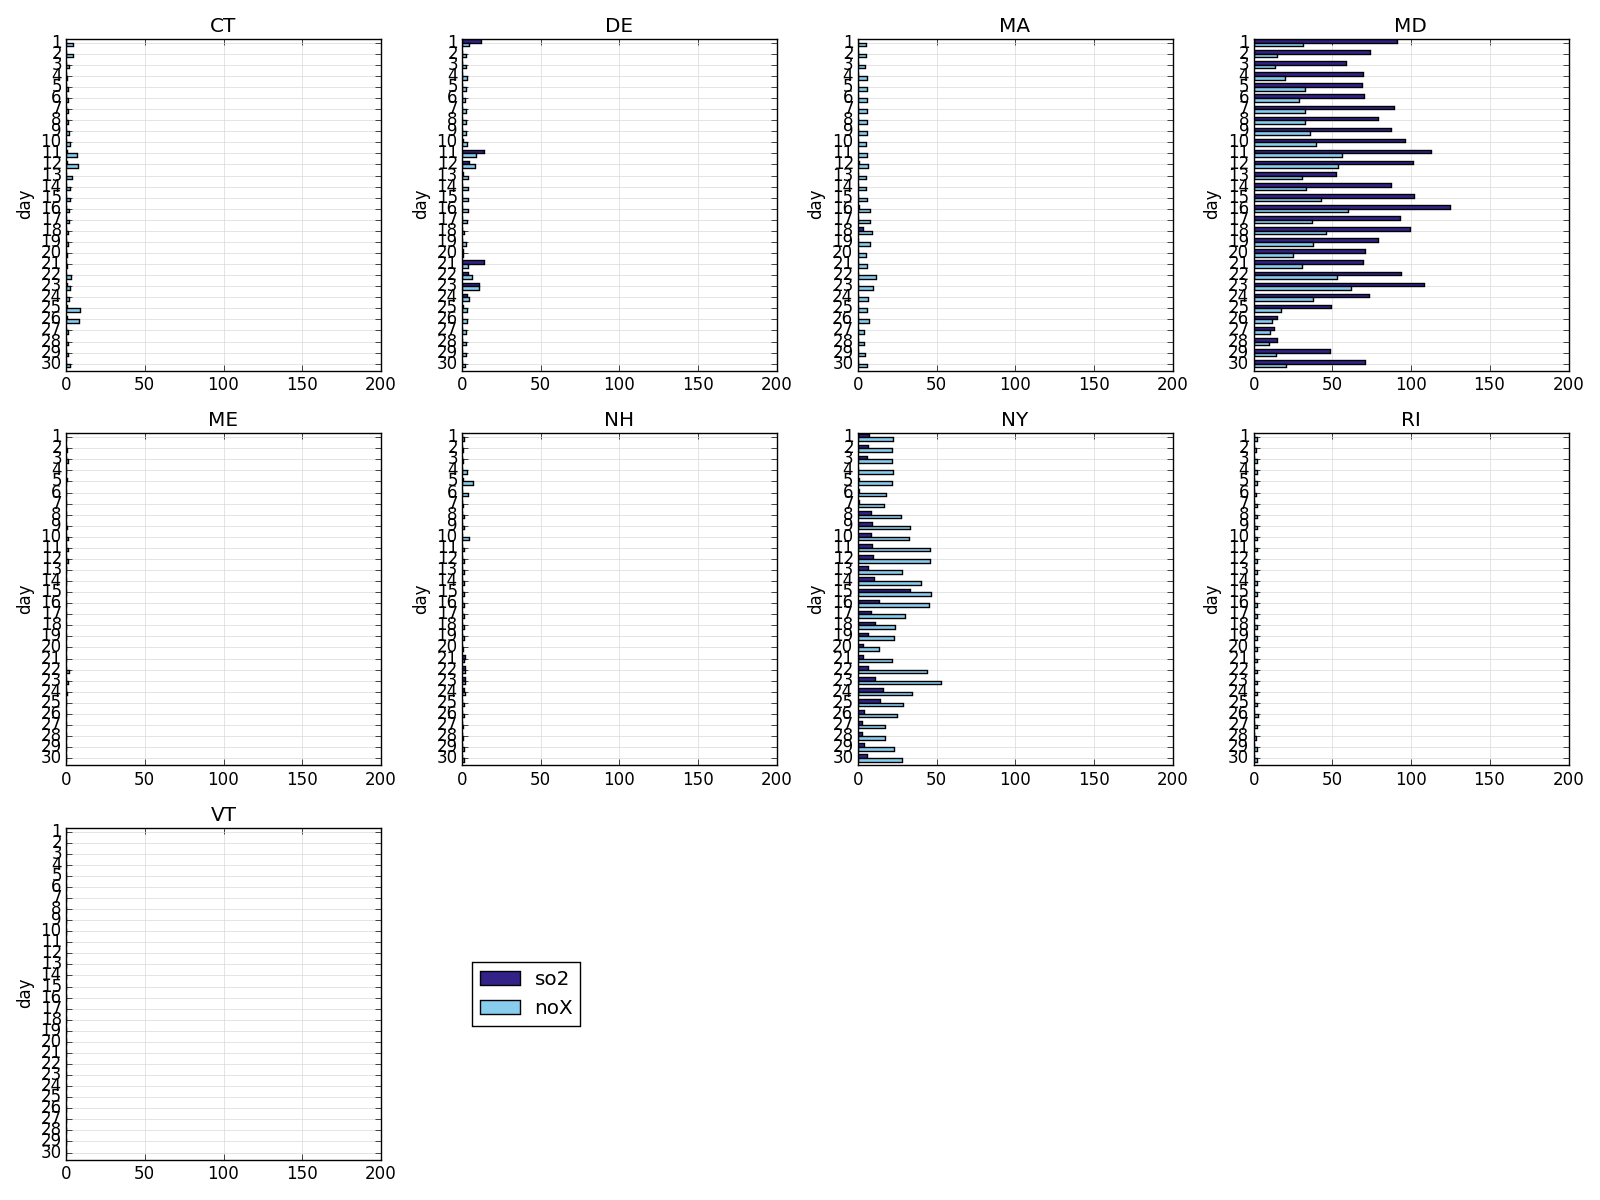
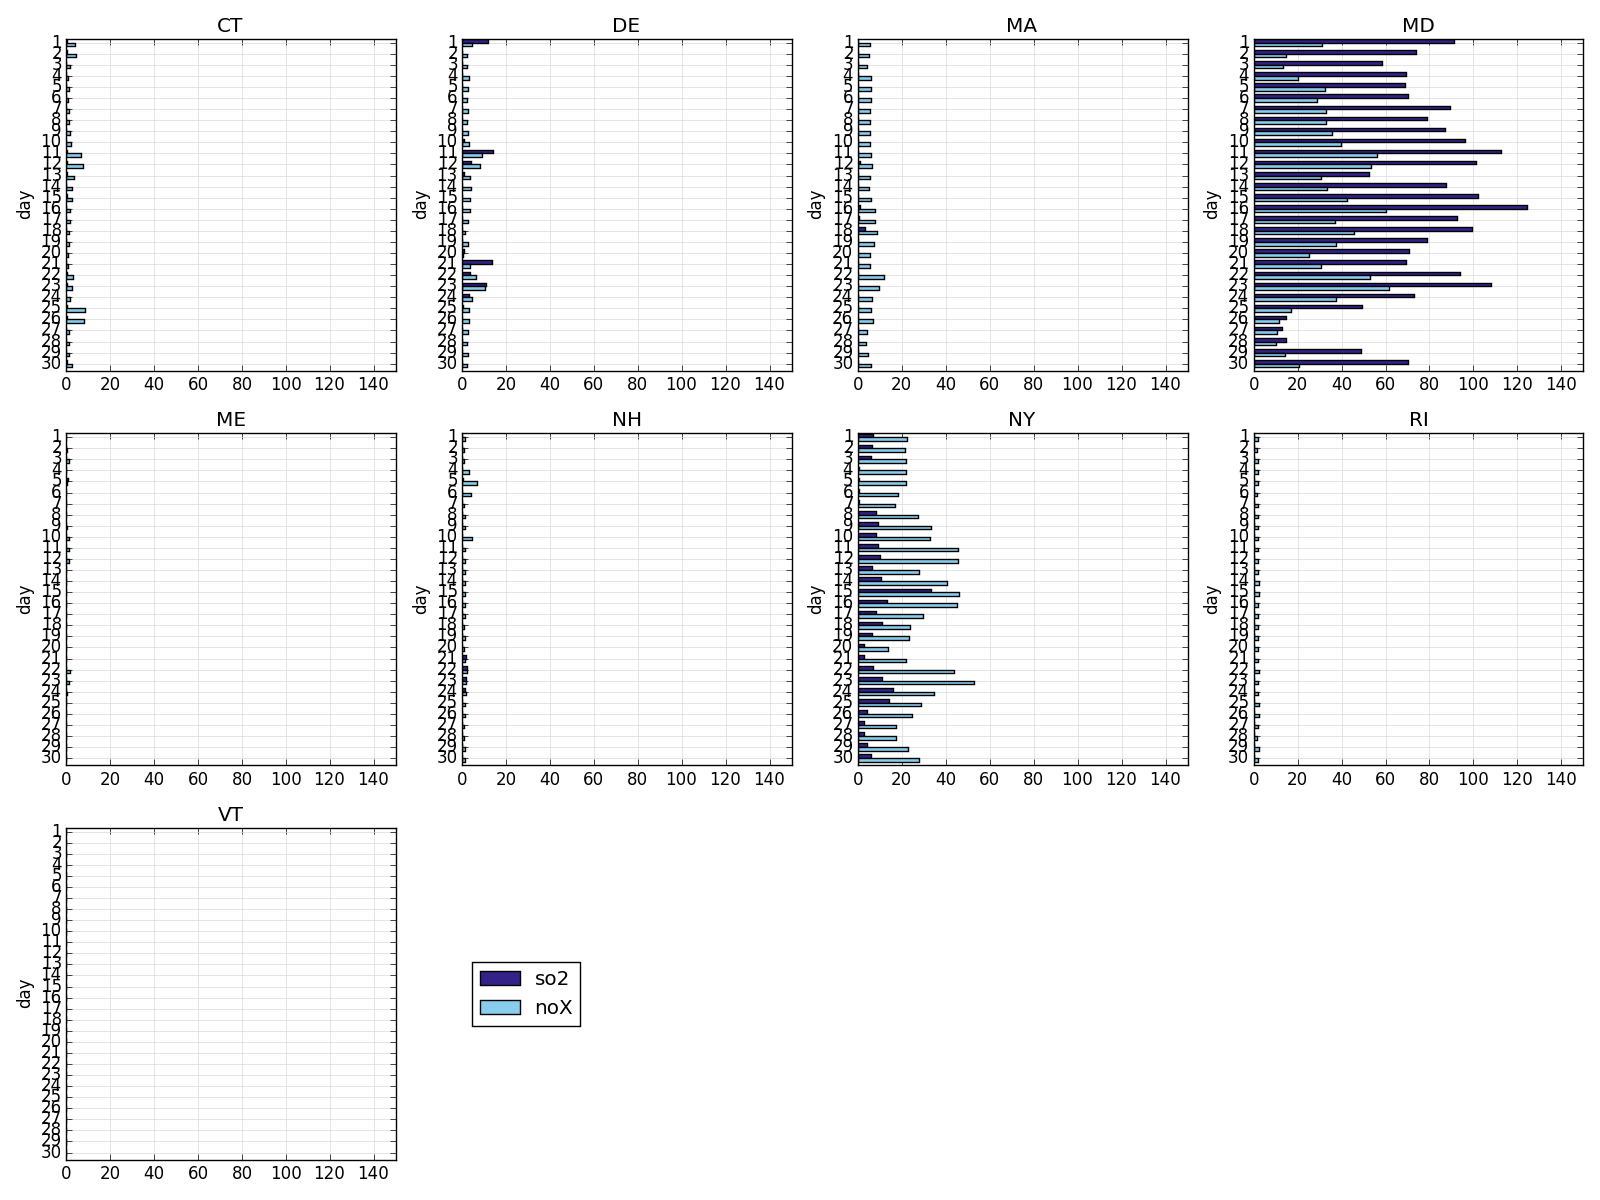
Allow limits to break at half magnitudes.

diff --git a/agatecharts/table.py b/agatecharts/table.py
@@ -1,11 +1,9 @@
 #!/usr/bin/env python
 
-import math
-
 from matplotlib import pyplot
 
 from agatecharts.charts import Bars, Columns, Lines, Scatter
-from agatecharts.utils import roundoff
+from agatecharts.utils import round_limits
 
 #: Default rendered chart size in inches
 DEFAULT_SIZE = (8, 8)
@@ -102,30 +100,7 @@ class TableCharts(object):
 
         x_min, x_max = chart.get_x_domain(self)
         y_min, y_max = chart.get_y_domain(self)
-
-        if x_min is not None:
-            if x_min < 0:
-                x_min = roundoff(x_max)
-            else:
-                x_min = 0
-
-        if x_max is not None and x_max != 0:
-            if x_max > 0:
-                x_max = roundoff(x_max)
-            else:
-                x_max = 0
-
-        if y_min is not None:
-            if y_min < 0:
-                y_min = roundoff(x_max)
-            else:
-                y_min = 0
-
-        if y_max is not None:
-            if y_max > 0:
-                y_max = roundoff(y_max)
-            else:
-                y_max = 0
+        x_min, x_max, y_min, y_max = round_limits(x_min, x_max, y_min, y_max)
 
         pyplot.figure(figsize=size, dpi=dpi)
         axes = pyplot.subplot(1, 1, 1)

diff --git a/agatecharts/tableset.py b/agatecharts/tableset.py
@@ -7,7 +7,7 @@ from matplotlib import pyplot
 
 from agatecharts.charts import Bars, Columns, Lines, Scatter
 from agatecharts.table import DEFAULT_DPI
-from agatecharts.utils import roundoff
+from agatecharts.utils import round_limits
 
 #: Default small multiple chart size in inches
 DEFAULT_MULTIPLE_SIZE = (4, 4)
@@ -83,29 +83,7 @@ class TableSetCharts(object):
             y_min = min(y_min, table_y_min)
             y_max = max(y_max, table_y_max)
 
-        if x_min is not None:
-            if x_min < 0:
-                x_min = roundoff(x_max)
-            else:
-                x_min = 0
-
-        if x_max is not None and x_max != 0:
-            if x_max > 0:
-                x_max = roundoff(x_max)
-            else:
-                x_max = 0
-
-        if y_min is not None:
-            if y_min < 0:
-                y_min = roundoff(x_max)
-            else:
-                y_min = 0
-
-        if y_max is not None:
-            if y_max > 0:
-                y_max = roundoff(y_max)
-            else:
-                y_max = 0
+        x_min, x_max, y_min, y_max = round_limits(x_min, x_max, y_min, y_max)
 
         i = 0
 
